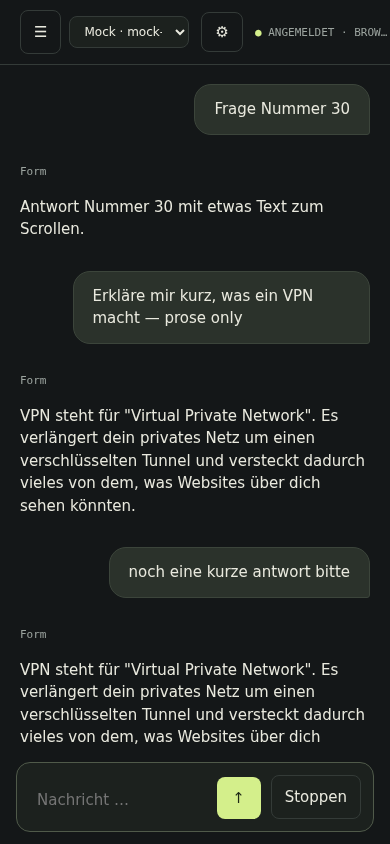
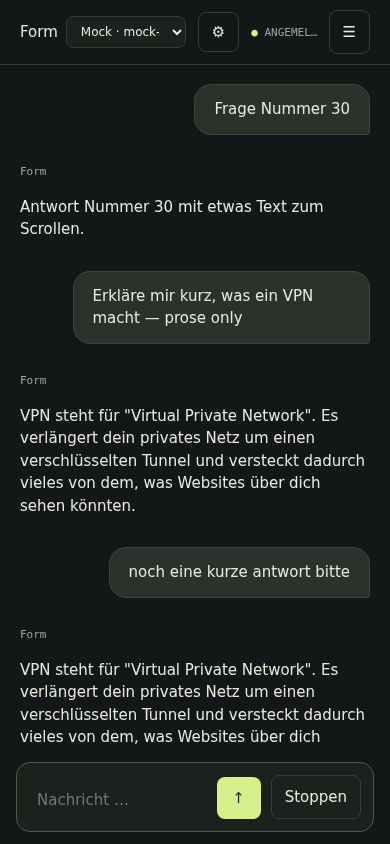
Move mobile menu right and blend element view with chat background

diff --git a/index.html b/index.html
@@ -71,7 +71,7 @@ button.icon{padding:5px 9px;font-size:13px}
 .elwrap.marked{outline:2px solid var(--lime);outline-offset:6px}
 .updated{animation:pulse 1.8s ease-out 1}
 @keyframes pulse{0%{background:#242e1d}100%{background:transparent}}
-#overlay{max-width:none;width:min(96vw,1100px);height:min(92dvh,900px)}
+#overlay{background:var(--bg);border:0;box-shadow:none;max-width:none;width:min(96vw,1100px);height:min(92dvh,900px)}
 .ovdlg{display:flex;flex-direction:column;height:100%;padding:18px 20px;min-height:0;overflow:hidden}
 .ovhead{display:flex;align-items:center;gap:10px;flex-shrink:0}.ovhead strong{flex:1;font-size:17px;overflow:hidden;text-overflow:ellipsis;white-space:nowrap}
 .ovbody{flex:1;min-height:0;overflow:auto;margin-top:12px;display:flex;flex-direction:column;gap:12px}
@@ -104,6 +104,6 @@ dialog::backdrop{background:rgba(10,12,11,.7)}
 #loginform input,#regform input{background:#141718;border:1px solid var(--line);border-radius:8px;padding:9px 11px;color:var(--ink)}
 #importbar button{font-size:11px;padding:6px 10px}
 #importbar span{flex:1;white-space:normal}
-@media(max-width:760px){.app{display:block}aside{display:none;position:fixed;inset:65px 0 0 0;background:#141718;z-index:10;padding:25px}aside.open{display:flex}header{height:65px;padding:0 20px;gap:8px}header>div:first-child>span{display:none}#mobile{display:block}#model{max-width:120px}.feed{padding:22px 20px}.composer-wrap{padding:10px 16px max(12px,env(safe-area-inset-bottom))}.intro{padding-top:10px}.intro h1{letter-spacing:-1px}.hint{font-size:9px}.elname{max-width:52vw}#overlay{width:100vw;height:100dvh;max-height:100dvh;border-radius:0;margin:0}.site{padding:10px 12px}.site .crane{width:min(240px,100%)}.think svg{width:100px;height:55px}}
+@media(max-width:760px){.app{display:block}aside{display:none;position:fixed;inset:65px 0 0 0;background:#141718;z-index:10;padding:25px}aside.open{display:flex}header{height:65px;padding:0 20px;gap:8px}header>div:first-child{display:none}header>div:nth-child(2){flex:1;min-width:0}#mobile{display:block;flex-shrink:0;margin-left:auto}#model{max-width:120px}.feed{padding:22px 20px}.composer-wrap{padding:10px 16px max(12px,env(safe-area-inset-bottom))}.intro{padding-top:10px}.intro h1{letter-spacing:-1px}.hint{font-size:9px}.elname{max-width:52vw}#overlay{width:100vw;height:100dvh;max-height:100dvh;border-radius:0;margin:0}.site{padding:10px 12px}.site .crane{width:min(240px,100%)}.think svg{width:100px;height:55px}}
 @media(prefers-reduced-motion:reduce){*{scroll-behavior:auto!important;animation:none!important;transition:none!important}.sketch path,.sketch circle,.sketch line,.sketch polygon{stroke-dashoffset:0}.think .wire line{opacity:1;transform:none}.site .block,.site .trolley,.site .load{animation:none!important;opacity:1;transform:none}}
-</style></head><body><div class="app"><aside id="sidebar"><div class="brand"><span>⌑</span>form</div><button id="new">＋ Neuer Chat</button><div class="navtabs" role="tablist" aria-label="Sammlungen"><button id="elements-tab" role="tab" aria-selected="false" aria-controls="elements-list">Elemente</button><button id="chats-tab" role="tab" aria-selected="true" aria-controls="sessions">Chats</button></div><nav class="sessions hidden" id="elements-list" role="tabpanel" aria-labelledby="elements-tab"></nav><nav class="sessions" id="sessions" role="tabpanel" aria-labelledby="chats-tab" aria-label="Gespeicherte Chats"></nav><div class="sidebottom"><div class="tools"><button id="settingsbtn2">Modelle</button><button id="logout">Abmelden</button></div><p><span id="whoami"></span></p></div></aside><main><header><div style="display:flex;align-items:center;gap:15px"><button id="mobile" aria-label="Sitzungen öffnen" aria-expanded="false">☰</button><span>Form</span></div><div style="display:flex;align-items:center;gap:12px"><select id="model" class="hidden" aria-label="Modell wählen"></select><button id="settingsbtn" aria-label="Modelle verwalten">⚙</button><span class="status"><b>●</b> <span id="statuslabel">STARTET</span></span></div></header><div id="feed" class="feed" tabindex="0" aria-label="Gespräch"></div><div class="composer-wrap"><div id="quickbar" class="quickbar hidden" aria-label="Angepinnte Elemente"></div><div id="refchip" class="refchip hidden"></div><form id="composer" class="composer"><textarea id="prompt" rows="1" maxlength="2000" aria-label="Nachricht" placeholder="Nachricht …"></textarea><button class="send" id="send" aria-label="Nachricht senden">↑</button><button type="button" id="stop" class="hidden">Stoppen</button></form><div id="live" class="sr-only" aria-live="polite"></div></div></main></div><dialog id="login" aria-label="Anmeldung"><div class="dlg"><div class="dlghead"><strong>Form · Anmelden</strong></div><div id="loginerr" class="notice error hidden"></div><form id="loginform"><label>Benutzername <input name="username" required minlength="3" maxlength="32" autocomplete="username"></label><label>Passwort <input name="password" type="password" required autocomplete="current-password"></label><button>Anmelden</button></form><form id="regform" class="hidden"><label>Benutzername <input name="username" required minlength="3" maxlength="32" autocomplete="username"></label><label>Passwort <input name="password" type="password" required minlength="8" maxlength="200" autocomplete="new-password"></label><label>Passwort wiederholen <input name="password2" type="password" required minlength="8" maxlength="200" autocomplete="new-password"></label><button>Registrieren</button></form><div class="ovfoot" style="margin-top:14px"><button id="switchreg" class="hidden">Neu registrieren</button></div></div></dialog><dialog id="settings" aria-label="Modelle verwalten"><div class="dlg"><div class="dlghead"><strong>Modelle</strong><button id="closesettings" aria-label="Einstellungen schliessen">✕</button></div><div id="modellist"></div><form id="addmodel"><div class="eyebrow">Modell hinzufügen</div><label>Bezeichnung <input name="label" required maxlength="60" placeholder="z. B. z.ai"></label><label>Base-URL <input name="baseUrl" required maxlength="200" placeholder="https://api.z.ai/v1"></label><label>Modell-ID <input name="model" required maxlength="100" placeholder="glm-4.6"></label><label>API-Key <input name="apiKey" type="password" required minlength="6" maxlength="400" autocomplete="off"></label><button>Hinzufügen</button></form></div></dialog><dialog id="overlay" aria-label="Elementansicht"><div class="dlg ovdlg" id="ovcontent"></div></dialog></body></html>
+</style></head><body><div class="app"><aside id="sidebar"><div class="brand"><span>⌑</span>form</div><button id="new">＋ Neuer Chat</button><div class="navtabs" role="tablist" aria-label="Sammlungen"><button id="elements-tab" role="tab" aria-selected="false" aria-controls="elements-list">Elemente</button><button id="chats-tab" role="tab" aria-selected="true" aria-controls="sessions">Chats</button></div><nav class="sessions hidden" id="elements-list" role="tabpanel" aria-labelledby="elements-tab"></nav><nav class="sessions" id="sessions" role="tabpanel" aria-labelledby="chats-tab" aria-label="Gespeicherte Chats"></nav><div class="sidebottom"><div class="tools"><button id="settingsbtn2">Modelle</button><button id="logout">Abmelden</button></div><p><span id="whoami"></span></p></div></aside><main><header><div style="display:flex;align-items:center;gap:15px"><span>Form</span></div><div style="display:flex;align-items:center;gap:12px"><select id="model" class="hidden" aria-label="Modell wählen"></select><button id="settingsbtn" aria-label="Modelle verwalten">⚙</button><span class="status"><b>●</b> <span id="statuslabel">STARTET</span></span></div><button id="mobile" aria-label="Sitzungen öffnen" aria-expanded="false">☰</button></header><div id="feed" class="feed" tabindex="0" aria-label="Gespräch"></div><div class="composer-wrap"><div id="quickbar" class="quickbar hidden" aria-label="Angepinnte Elemente"></div><div id="refchip" class="refchip hidden"></div><form id="composer" class="composer"><textarea id="prompt" rows="1" maxlength="2000" aria-label="Nachricht" placeholder="Nachricht …"></textarea><button class="send" id="send" aria-label="Nachricht senden">↑</button><button type="button" id="stop" class="hidden">Stoppen</button></form><div id="live" class="sr-only" aria-live="polite"></div></div></main></div><dialog id="login" aria-label="Anmeldung"><div class="dlg"><div class="dlghead"><strong>Form · Anmelden</strong></div><div id="loginerr" class="notice error hidden"></div><form id="loginform"><label>Benutzername <input name="username" required minlength="3" maxlength="32" autocomplete="username"></label><label>Passwort <input name="password" type="password" required autocomplete="current-password"></label><button>Anmelden</button></form><form id="regform" class="hidden"><label>Benutzername <input name="username" required minlength="3" maxlength="32" autocomplete="username"></label><label>Passwort <input name="password" type="password" required minlength="8" maxlength="200" autocomplete="new-password"></label><label>Passwort wiederholen <input name="password2" type="password" required minlength="8" maxlength="200" autocomplete="new-password"></label><button>Registrieren</button></form><div class="ovfoot" style="margin-top:14px"><button id="switchreg" class="hidden">Neu registrieren</button></div></div></dialog><dialog id="settings" aria-label="Modelle verwalten"><div class="dlg"><div class="dlghead"><strong>Modelle</strong><button id="closesettings" aria-label="Einstellungen schliessen">✕</button></div><div id="modellist"></div><form id="addmodel"><div class="eyebrow">Modell hinzufügen</div><label>Bezeichnung <input name="label" required maxlength="60" placeholder="z. B. z.ai"></label><label>Base-URL <input name="baseUrl" required maxlength="200" placeholder="https://api.z.ai/v1"></label><label>Modell-ID <input name="model" required maxlength="100" placeholder="glm-4.6"></label><label>API-Key <input name="apiKey" type="password" required minlength="6" maxlength="400" autocomplete="off"></label><button>Hinzufügen</button></form></div></dialog><dialog id="overlay" aria-label="Elementansicht"><div class="dlg ovdlg" id="ovcontent"></div></dialog></body></html>
